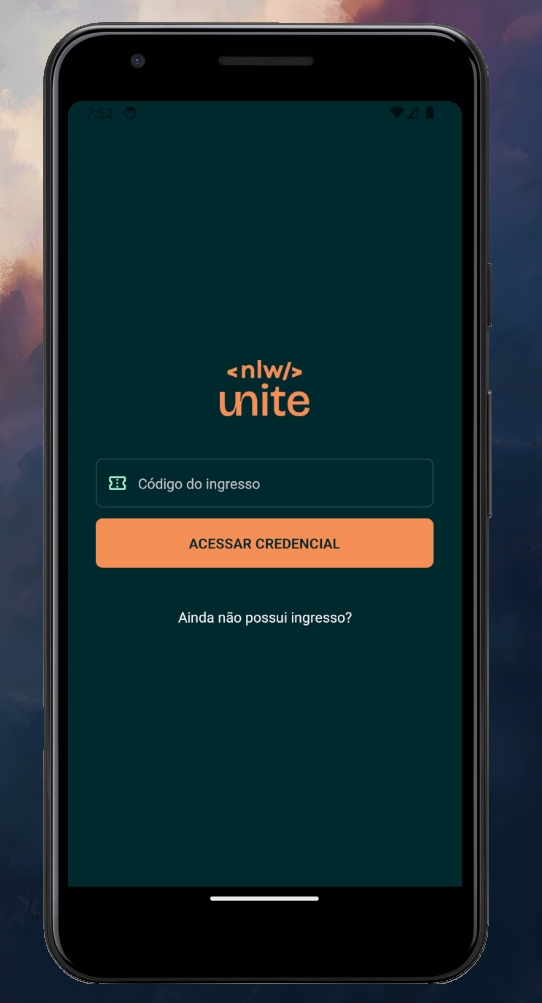
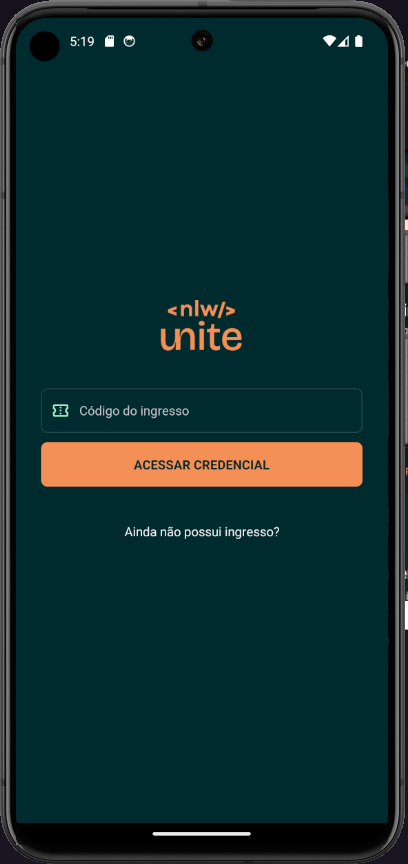
updated README

diff --git a/README.md b/README.md
@@ -1,3 +1,5 @@
 # NLW - Unite 2024
 
-![Prototype](./image.png)
+| Login                   | Credential                |
+| ----------------------- | ------------------------- |
+| ![prototype](image.png) | ![prototype2](image2.png) |
